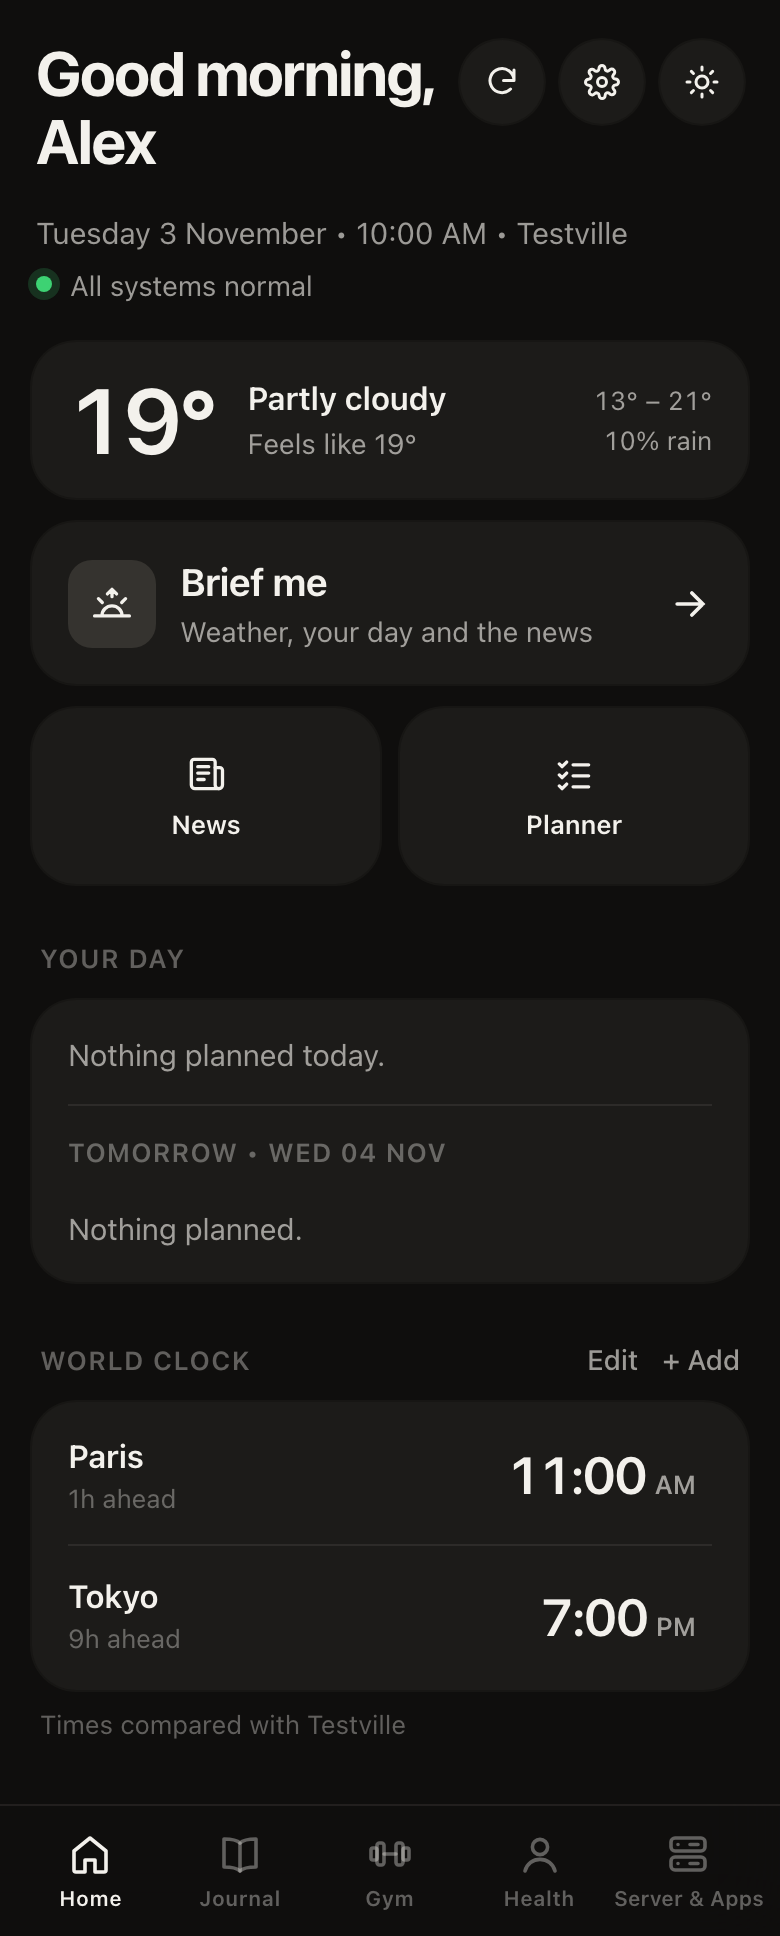
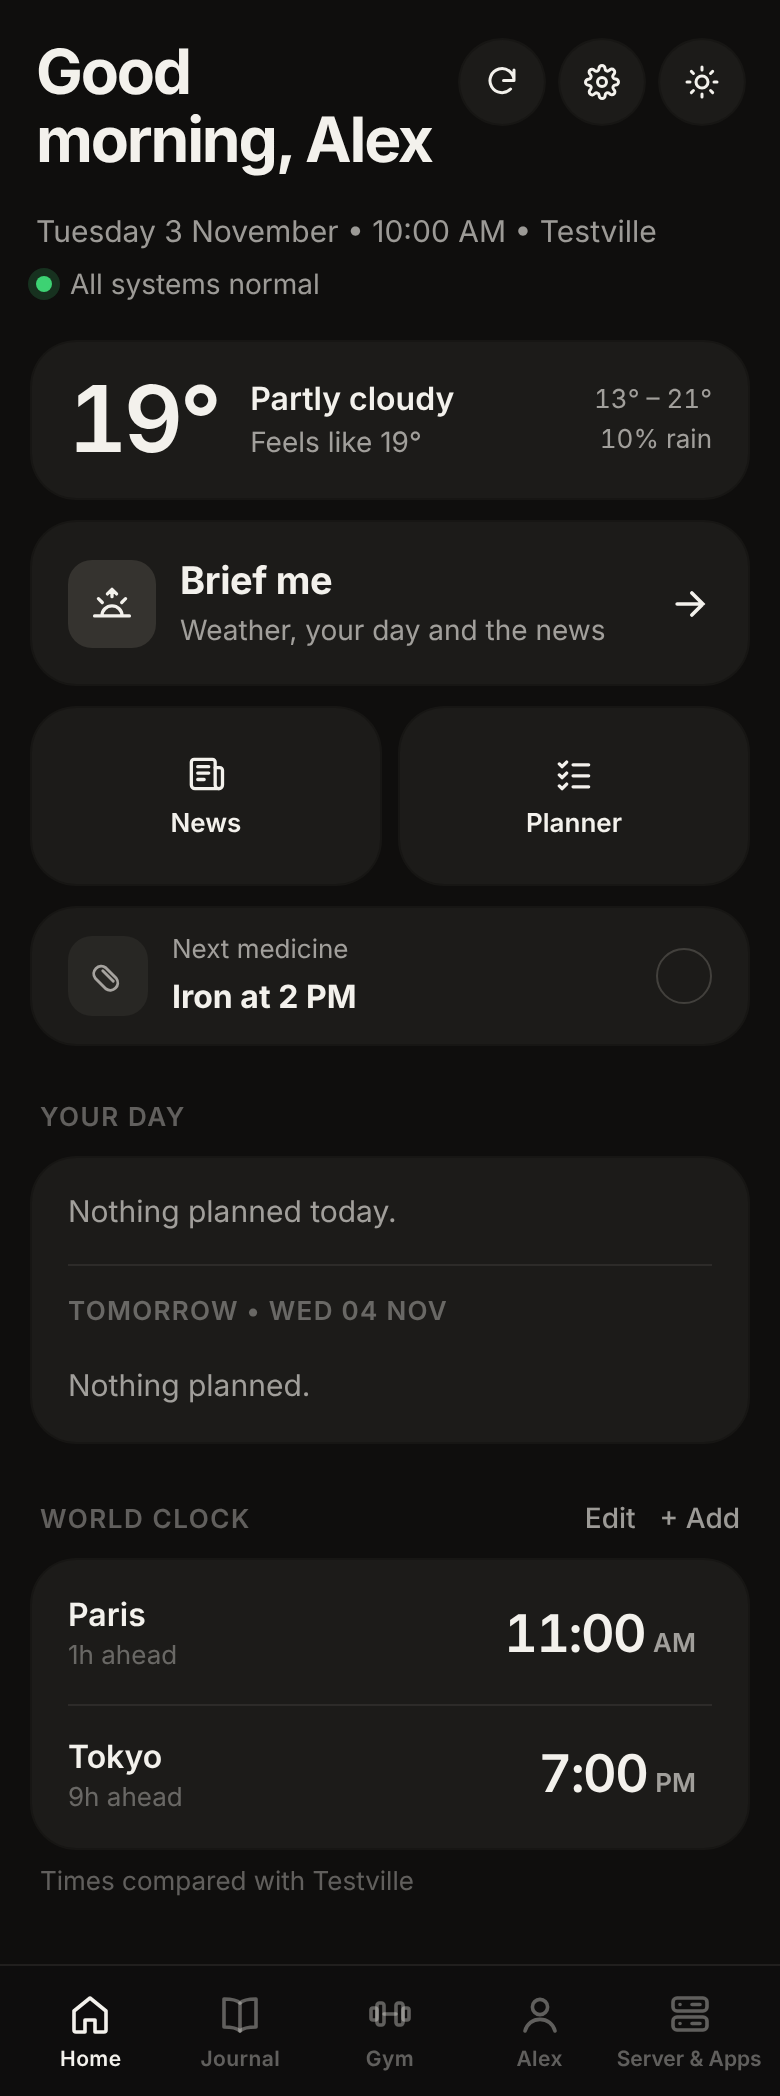
docs: add the releasing guide, a real-machine test checklist, sharing your own modules, and the new features

diff --git a/demo/generate.py b/demo/generate.py
@@ -120,6 +120,11 @@ def build(out, today, seed=42):
     log = {d.isoformat(): {"m1@0800": r.random() < 0.8, "m3@2200": r.random() < 0.6} for d in days[-14:]}
     dump(f"{out}/sg.json", {"meds": meds, "log": log,
                             "health": [{"id": "appt1", "name": "Demo check-up", "due": (today + timedelta(days=20)).isoformat(), "why": "yearly"}]})
+    # money: an invented month, in US dollars, with a few things spent
+    dump(f"{out}/money.json", {"currency": "USD", "income": [{"id": "i1", "name": "Salary", "amount": 480000}, {"id": "i2", "name": "Freelance", "amount": 40000}],
+                               "bills": [{"id": "b1", "name": "Rent", "amount": 180000, "day": 1}, {"id": "b2", "name": "Phone", "amount": 4500, "day": 8},
+                                         {"id": "b3", "name": "Music", "amount": 1099, "day": 14}, {"id": "b4", "name": "Gym", "amount": 4000, "day": 28}],
+                               "spent": {f"{today:%Y-%m}": [{"id": "s1", "amount": 2350, "note": "Lunch", "day": 1}, {"id": "s2", "amount": 6420, "note": "Groceries", "day": max(1, today.day - 1)}]}})
     dump(f"{out}/planner-past.json", {})
     return out
 

diff --git a/docs/HANDOFF.md b/docs/HANDOFF.md
@@ -14,6 +14,10 @@ A private, self-hosted assistant for the day: a dashboard (notes, journal, gym, 
 - Setup wizard on first run: name and time zone, machine, modules, AI engine, Telegram, access. Every step can be skipped.
 - Dashboard updates: the dashboard checks for a newer release tag when it opens (GitHub tags API, cached 10 minutes) and shows a popup with the release notes in three kinds: Security (`security:`), New (`feat:`) and Fixed (`fix:`). The notes are the commit subjects between the two tags, from the GitHub compare API, kept in `release-notes.json` in the data folder because tags never move. Update now asks the host helper to run `homelab update --yes` and shows the steps until the new version answers, then reloads. Later hides it until the next version (per browser). After an update, Home shows an Updated card until it is read or closed (`version-seen.json`; a fresh install starts at its own version, so it shows nothing). Settings, Updates shows the same notes and the last five releases. Without the helper the popup shows the commands instead, and offline it shows nothing. Code: `modules/server/__init__.py` (`parse_notes`, `release_notes`, `update_state`), `stack/landing/site/js/update.js`, `css/update.css`.
 - Health (0.2.0): medicines are a list in `sg.json` (`meds`), each with how often (every day at up to six times, every week on a weekday, every 2 weeks from a first date, every month on day 1 to 28), an optional stop after N, and reminders on or off. A dose is ticked in the log as `<id>@HHMM`, by meds day (4 AM to 4 AM). The schedule maths is plain functions in `modules/health/meds.py`. Migration `0002_medicines` turns the old morning, lunch and night slots and weekly courses into medicines and keeps their ticks. Telegram reminders (Done, 5 min, 15 min) only go out while the bot is connected: the form hides the switch, the API refuses it, and the reminder loop skips. Buttons sent before 0.2.0 still work. The Health tab shows the first name from Settings, or User.
+- Health (0.3.0): pills left per medicine (`left`, `per`), counted off by each tick and put back by an untick; a refill nudge on Telegram 5 days before they run out; `GET /sg/month` for the calendar; quiet hours (`quiet` in `sg.json`) send reminders without a sound. Home shows the next medicine due (`data-card="meds"`, can be hidden in Settings, Menu and home).
+- Money (0.3.0, `modules/money`): currency, income each month, monthly bills with their day, and spending, in `money.json` (mode 600). The maths is `modules/money/budget.py` (frozen; `tests/test_money.py` is its contract): today's budget = (income - every bill this month - spent before today) / days left, today included. Bills on the 29th to 31st fall on a short month's last day. The API masks names (first letter and `***`) and amounts unless asked with `?show=1`, and with a settings PIN only when the PIN comes with the request. The dashboard hides them again after a minute or when you leave the tab. Monthly bills only, said once in setup and in the bill form.
+- Backups (0.3.0): the host helper runs the nightly backup (Settings, Backups or Schedule), keeps the newest N in `~/.homelab/backups`, and copies the newest to `night.offsite_to` (an external drive, a NAS or a synced folder), locked with OpenSSL AES-256 and PBKDF2 when a passphrase is set (`~/.homelab/backup-passphrase`, mode 600, never in the container). States in `backup-status.json`: missing (drive unplugged, retried every 5 minutes), blocked (macOS privacy), denied, full, inside (a folder in ~/.homelab), nolock (openssl too old). The helper sends its own Telegram alerts, at most once a day each: a failed backup, a copy that could not go, the disk at 90% and 95%, and the bot container down for 10 minutes (it also starts it again). `homelab stop` writes `stopped-by-you.json` so stopping it on purpose is not an alert. Restore from the page runs `homelab restore --yes` through the helper; a locked copy restores from the terminal.
+- Updates (0.3.0): the helper runs updates unbuffered, so the Updates page shows live lines. An update rebuilds the image only when `stack/telegram/Dockerfile` or `requirements.txt` changed (the code is mounted), otherwise it restarts. `homelab update` restarts when the files on disk are newer than what runs. Telegram says once per version that a new one is out, with Update now (Settings, Updates can turn this off).
 - Custom apps: you can add your own Docker apps from Settings or the command line, each in its own compose project.
 - CI (`.github/workflows`): `leak-scan`, `lint`, `compose`, `pins` and `tests` on every push and pull request. **Cut release** (`cut-release.yml`) tags a release when `core/version.py` on `main` names a new version, writes the notes, and calls `images.yml` to build and sign the images.
 
@@ -79,6 +83,7 @@ Raise `VERSION` in `core/version.py` in a pull request; merging it is the releas
 - **Custom apps on real Docker.** Adding, starting and removing your own app has only run against fake tools.
 - **Homebrew record and purge** (what the installer installed, and removing it again) on a real Mac.
 - **launchd and systemd.** The host helper, autostart and the reboot path have never run for real on both systems.
+- Everything in [docs/TESTING.md](TESTING.md) that is not ticked there. The Install test workflow covers a fresh Linux x64 and arm64 install, once it has run on GitHub.
 - **Medicine reminders on a real Telegram bot**, and the 0.1.x to 0.2.0 migration on a real install with old slots and courses. Both are covered by unit tests with fake data only.
 - **The dashboard Update button and the update popup** have run only against fake helpers and the demo page, never a real update. 0.1.0 and 0.1.1 have no popup, so the move to 0.1.2 goes through `homelab update` or the Update now button in Settings, Updates (0.1.1 has it). The first real popup is from 0.1.2 to the next release.
 - **`homelab update`, rollback and `restore`** against a real remote or a real failure.

diff --git a/README.md b/README.md
@@ -39,7 +39,8 @@ It adapts to the machine it runs on. A setup wizard looks at your hardware and s
 | **Home** | A greeting, the weather, your day and tomorrow, a world clock, and **Brief me**: a short morning briefing with weather, your calendar, the news and a server recap. |
 | **Journal** | Write your day. Optionally get a private nightly summary, a mood score, a weekly recap and deeper insights, written by a model on your own machine. |
 | **Gym** | Log workouts, see your weekly streak, personal records, body weight and progress charts. |
-| **Health** | Add your medicines on your own schedule (every day at set times, every week, every 2 weeks or every month) and your appointments, then tick them off. Optional Telegram reminders with Done, 5 min and 15 min. The tab shows your first name. A tick-list for remembering, never medical advice. |
+| **Health** | Add your medicines on your own schedule (every day at set times, every week, every 2 weeks or every month) and your appointments, then tick them off. Pills left with a refill reminder, a month calendar of what was taken, quiet hours, and Telegram reminders with Done, 5 min and 15 min. The next medicine shows on Home. A tick-list for remembering, never medical advice. |
+| **Money** | One month at a time: your income and bills (with the day each is charged), what you spent, and what you can spend today. Every bill this month is counted from day one, and a quick **+ Spent** adjusts the days after. Names and amounts stay hidden until you tap Show. Monthly bills only for now. |
 | **Planner and notes** | Notes, one-off or repeating reminders, and long-term goals, in plain words. |
 | **News and weather** | Headlines by topic with short AI digests, and forecasts for home or any city. |
 | **Flights and email** | Flights found in your calendar with a "time to leave" nudge, and a short list of important email (off until you add a Gmail app password). |
@@ -86,8 +87,8 @@ You pick them during setup or later with `homelab apps`. Nothing is installed th
 
 - **Pinned.** Every Docker image is pinned to an exact version, and CI fails if one is not.
 - **Tested.** Over 340 automated tests, including recorded API replies, and a scan of every change for secrets, emails and public IP addresses.
-- **Safe updates.** When a new version is out, the dashboard shows what it brings (Security, New and Fixed) and updates with one tap, or run `homelab update`. Either way it takes a snapshot first and goes back by itself if anything fails.
-- **Backups in one command.** `homelab backup` saves your data and settings to one file, `homelab restore` brings it back. Backups are plain files, so keep them somewhere safe.
+- **Safe updates.** When a new version is out, the dashboard and Telegram show what it brings (Security, New and Fixed) and update with one tap, or run `homelab update`. Either way it takes a snapshot first and goes back by itself if anything fails.
+- **Backups every night.** Settings, Backups keeps the last 7 on this machine, copies them to your own drive or a synced folder (locked with a passphrase if you like), says plainly when the drive is not plugged in, and restores in one tap. A Telegram alert comes if a backup fails, the disk is nearly full or the assistant stops. `homelab backup` and `homelab restore` do the same from the terminal.
 - **Private by default.** The dashboard listens on this machine only until you open it to your network with a PIN. The only outside calls are for features you use, such as weather and news feeds.
 - **Open.** MIT licence, built in the open, and written so that one missing piece never takes the rest down.
 
@@ -147,7 +148,9 @@ Run `homelab help` for the rest.
 | Questions and ideas | [Discussions](https://github.com/theappfoundryco/personal-homelab-server/discussions) and Discord [#homelab](https://discord.gg/CtxC3ADy76) |
 | Bugs and feature requests | [Issues](https://github.com/theappfoundryco/personal-homelab-server/issues/new/choose) (remove personal information first) |
 | Security problems | Report privately, see [SECURITY.md](SECURITY.md) |
-| Build your own module | [docs/modules.md](docs/modules.md) |
+| Build your own module | [docs/modules.md](docs/modules.md), and modules others shared: [docs/community-modules.md](docs/community-modules.md) |
+| Make a release | [docs/RELEASING.md](docs/RELEASING.md) |
+| Test on real machines | [docs/TESTING.md](docs/TESTING.md) |
 
 ## Contribute
 

diff --git a/docs/TESTING.md b/docs/TESTING.md
@@ -1,0 +1,40 @@
+# Testing on real machines
+
+The unit tests (`python3 -W ignore -m unittest discover -s tests`), `make check` and `make test-e2e` run everywhere with fake tools.
+The **Install test** workflow installs for real on fresh Linux x64 and arm64 machines every week and on changes to the installer.
+What is left needs a real machine and a person. Tick what you tried, with the date and the machine, in the pull request or in
+docs/HANDOFF.md under "What has been verified".
+
+## Install
+- [ ] Mac, Apple Silicon, nothing installed: the one-line install installs Homebrew and Colima, and opens the dashboard.
+- [ ] Mac with a leftover `docker` command and nothing to run it: Colima is installed, with a line saying so.
+- [ ] Mac with OrbStack, and one with Docker Desktop: both are used as they are.
+- [ ] Linux x64 (Ubuntu or Debian) without Docker: Docker Engine is installed with its own installer.
+- [ ] Raspberry Pi 4 or 5, 64-bit Raspberry Pi OS: installs and the dashboard answers. (32-bit is not supported.)
+- [ ] Running the installer a second time keeps every setting and password.
+
+## The host helper and starting by itself
+- [ ] Mac: `homelab agent install`, then Settings, Updates shows Update now. After a restart of the Mac it is still running (launchd).
+- [ ] Linux: the same with systemd (`systemctl --user status homelab-agent`).
+- [ ] `homelab autostart on`, restart the machine: the dashboard comes back without anyone logging in (Linux) or after login (Mac).
+
+## Updates
+- [ ] From the previous release, the dashboard offers the new one with its notes, and Update now finishes and reloads.
+- [ ] The Telegram message for a new version arrives once, and its Update now button works.
+- [ ] A release that only changes code restarts in seconds; one that changes `stack/telegram/requirements.txt` rebuilds.
+- [ ] Pulling with git by hand, then `homelab update`: it restarts with the new files instead of saying up to date.
+
+## Backups
+- [ ] Back up now on the Backups page: a new backup is listed within a minute.
+- [ ] A USB drive chosen as the place for copies: the copy lands there.
+- [ ] Unplug the drive, back up: the page and Telegram say it is not plugged in. Plug it back in: the copy goes within 5 minutes.
+- [ ] Mac: the first copy to a USB drive. If macOS blocks it, the page says how to allow it (Privacy & Security).
+- [ ] Lock the copies with a passphrase, then restore a locked copy with `homelab restore <file>.enc`.
+- [ ] Restore from the Backups page: the dashboard comes back with the older data, and a before-restore copy exists.
+- [ ] A disk over 90% full gives one Telegram alert that day. Stopping the bot container (not with `homelab stop`) gives one alert after 10 minutes.
+
+## Medicines and Money
+- [ ] A medicine with reminders on: the Telegram message comes at its time, 5 min and 15 min snooze, Done ticks it.
+- [ ] Quiet hours: a reminder inside them arrives without a sound.
+- [ ] Pills left: a refill reminder 5 days before they run out.
+- [ ] Money: set up, Show, + Spent, and leave the tab: amounts are hidden again. With a settings PIN, Show asks for it.

diff --git a/docs/ANTIPATTERNS.md b/docs/ANTIPATTERNS.md
@@ -27,6 +27,7 @@ Mistakes that already happened in this project, so they do not happen twice. Eac
 
 ## Images and updates
 - **`:latest` or an unpinned image tag.** Pin every image to an exact version. `scripts/check-pins.py` enforces it.
+- **Typing `git tag` for a release.** Raise `VERSION` in a pull request; the Cut release workflow tags it (docs/RELEASING.md). Tagging by hand went wrong three times in one day.
 - **Accepting a major version bump unread.** n8n, Grafana and Open WebUI migrate their data on first start, and some cannot go back. Read the notes and take `homelab backup` first.
 - **A commit sentence nobody outside the code understands.** Commit subjects are the release notes people read in the update popup. Use the right prefix (`security:`, `feat:`, `fix:`) and say what changes for them.
 - **Auto-updating behind `homelab update`.** Watchtower is off by default because it moves pinned versions on its own.
@@ -38,6 +39,7 @@ Mistakes that already happened in this project, so they do not happen twice. Eac
 - **Committing data, env files or backups.** The data guard blocks them. Do not force-add.
 - **Bypassing a hook with `--no-verify`.** If a guard fails, fix the cause.
 - **Printing the personal-value list** in a log, commit message, issue or PR.
+- **Money in plain view.** Names and amounts leave the Money module masked unless the request may see them (with a settings PIN, only with it). Never send them to Telegram or a log.
 
 ## Process
 - **Pushing to `main`.** Use a branch and a pull request.

diff --git a/docs/modules.md b/docs/modules.md
@@ -64,3 +64,23 @@ Add `modules: {pets: true}` to `config.yaml` if it is off by default, restart, a
 - Times shown to people are 12-hour (4:30 AM).
 - Sizes and colours come from the design tokens, never raw pixels.
 - Say what to do when something is missing, never just "failed".
+
+## Share it with others
+
+A module is one folder, so sharing it is sharing that folder.
+
+1. Put your module folder in a git repository of its own, with `module.yaml` and `__init__.py` at the top. Add a short README: what it does, what it needs, and a screenshot made with fake data.
+2. Keep to the rules here and in CONTRIBUTING.md: no personal values, pinned versions, a clear message when something it needs is missing.
+3. Add it to the list of community modules: open a pull request that adds one line to `docs/community-modules.md`.
+
+## Install a module someone shared
+
+A module runs inside the assistant with access to your data, like the built-in ones. Only add modules from people you trust, and read the code first.
+
+```bash
+git clone <the module's repository> ~/personal-homelab-server/modules/<its name>
+homelab restart
+```
+
+It shows up in Settings, Modules, where you can switch it off. `homelab update` leaves it alone. To remove it, delete its folder and run `homelab restart`.
+

diff --git a/CONTRIBUTING.md b/CONTRIBUTING.md
@@ -53,7 +53,7 @@ To try the installer from scratch as often as you like, use `scripts/dev-reset.s
 
 **Behaviour**
 - Refactors keep behaviour. The golden API tests and bot router tests decide. Keep them green.
-- Budget calculations are frozen. Moving code is fine. Open an issue first if you think one is wrong, and wait for the maintainer's yes.
+- Budget calculations (`modules/money/budget.py`, with `tests/test_money.py` as their contract) are frozen. Moving code is fine. Open an issue first if you think one is wrong, and wait for the maintainer's yes.
 - Optional features (Ollama, Whisper, Telegram, calendar, internet) must never crash when their dependency is missing. Show a clear message with a fix, never a raw traceback.
 - Pin every image to an exact version (`scripts/check-pins.py` enforces it). No `:latest`.
 - Do not add a new top-level dependency without a clear need. The only Python package today is PyYAML.

diff --git a/docs/community-modules.md b/docs/community-modules.md
@@ -1,0 +1,8 @@
+# Community modules
+
+Modules other people made and shared. They are not part of the project and are not reviewed by it: read the code before you add one.
+How to install one, and how to add yours to this list: [modules.md](modules.md#share-it-with-others).
+
+| Module | What it does | Where |
+|---|---|---|
+| _Yours here_ | Open a pull request that adds one line | |
